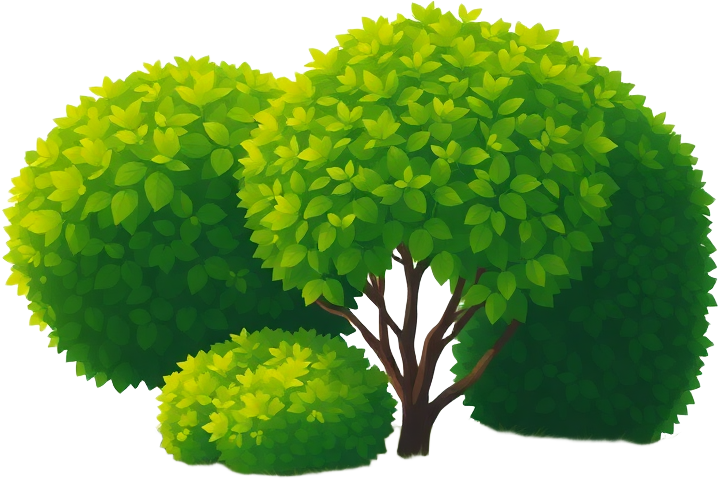
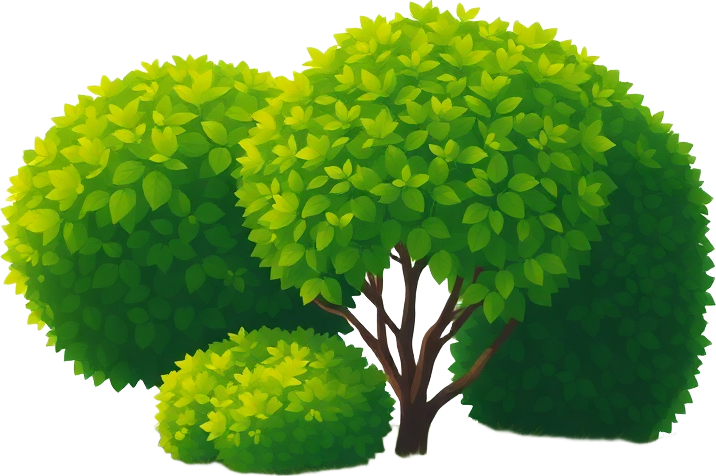
Goal scene: sit flush on the ground line, no right-edge bleed
- Sink the hill and bush bases into the soil line (deeper embed) so the green
  meets the ground flush instead of floating as a proud wedge.
- Re-crop goalhill/goalbush at an alpha threshold so the bottom edge is the
  solid base, not a soft matte halo.
- Clip the whole goal scene to the world's horizontal extent so the hill/bushes
  end cleanly at the map edge (same line the soil ends on) instead of bleeding
  into the off-map dark.

Claude-Session: https://claude.ai/code/session_01YCR2gkiAtGPrFY5YjFaZn2

diff --git a/dist/artifact.html b/dist/artifact.html
@@ -154,7 +154,7 @@
 <div id="ui"></div>
 <script>
 'use strict';
-window.__ASSET_VER = "91koi4";
+window.__ASSET_VER = "zntdr";
 // ===================== src/config.js =====================
 const __m_config = (function () {
 // =============================================================================
@@ -5495,32 +5495,45 @@ function goalCol0() {
   for (let c = 0; c < sub.cols; c++) if (sub.surface[c] && sub.surface[c].goal) return c;
   return -1;
 }
+// Clip whatever's drawn in `fn` to the world's horizontal extent so the goal
+// scene never bleeds past the map edges into the off-map dark.
+function withWorldClip(fn) {
+  const sub = state.substrate;
+  const lx = camera.worldToScreen(0, sub.surfaceY).x;
+  const rx = camera.worldToScreen(sub.worldWidth, sub.surfaceY).x;
+  ctx.save();
+  ctx.beginPath(); ctx.rect(lx, 0, rx - lx, camera.viewH); ctx.clip();
+  fn();
+  ctx.restore();
+}
 function drawGoalBackdrop() {
   const hill = asset('goalhill'); if (!hill) return;
   const sub = state.substrate, z = camera.zoom, cs = sub.cellSize;
   const g0 = goalCol0(); if (g0 < 0) return;
   const summerCols = Math.max(0, state.config.substrate.goalSummerCols || 0);
-  const x0 = Math.max(0, g0 - summerCols) * cs, x1 = sub.worldWidth + cs;   // span the cleared summer zone → off the right edge
+  const x0 = Math.max(0, g0 - summerCols) * cs, x1 = sub.worldWidth;   // span the cleared summer zone, ending AT the map edge
   const wWorld = x1 - x0, hWorld = wWorld * (hill.height / hill.width);
-  const embed = cs * 0.3;                                          // flat base tucked just under the soil line
+  const embed = cs * 0.9;                                             // sink the grassy base so the hill meets the soil line flush
   const sw = wWorld * z, sh = hWorld * z;
   const tl = camera.worldToScreen(x0, sub.surfaceY + embed - hWorld);
   if (tl.x > camera.viewW || tl.x + sw < 0) return;
-  ctx.drawImage(hill, tl.x, tl.y, sw, sh);
+  withWorldClip(() => ctx.drawImage(hill, tl.x, tl.y, sw, sh));
 }
 function drawGoalProps() {
   const bush = asset('goalbush'); if (!bush) return;
   const sub = state.substrate, z = camera.zoom, cs = sub.cellSize;
   const g0 = goalCol0(); if (g0 < 0) return;
   const aspect = bush.width / bush.height;
-  for (const [col, hCells] of [[g0 + 1, 3.0], [g0 + 4, 2.2]]) {    // a big cluster + a smaller one
-    if (col < 0 || col >= sub.cols) continue;
-    const hWorld = cs * hCells, wWorld = hWorld * aspect;
-    const s = camera.worldToScreen((col + 0.5) * cs, sub.surfaceY + cs * 0.18);
-    const sw = wWorld * z, sh = hWorld * z;
-    if (s.x < -sw || s.x > camera.viewW + sw) continue;
-    ctx.drawImage(bush, s.x - sw / 2, s.y - sh, sw, sh);
-  }
+  withWorldClip(() => {
+    for (const [col, hCells] of [[g0 + 1, 3.0], [g0 + 4, 2.2]]) {    // a big cluster + a smaller one
+      if (col < 0 || col >= sub.cols) continue;
+      const hWorld = cs * hCells, wWorld = hWorld * aspect;
+      const s = camera.worldToScreen((col + 0.5) * cs, sub.surfaceY + cs * 0.6);   // base sunk into the soil so it sits flush
+      const sw = wWorld * z, sh = hWorld * z;
+      if (s.x < -sw || s.x > camera.viewW + sw) continue;
+      ctx.drawImage(bush, s.x - sw / 2, s.y - sh, sw, sh);
+    }
+  });
 }
 
 // Nematodes: small pale wriggling worms. They writhe in place, tint reddish

diff --git a/dist/index.html b/dist/index.html
@@ -160,7 +160,7 @@
 <div id="ui"></div>
 <script>
 'use strict';
-window.__ASSET_VER = "91koi4";
+window.__ASSET_VER = "zntdr";
 // ===================== src/config.js =====================
 const __m_config = (function () {
 // =============================================================================
@@ -5501,32 +5501,45 @@ function goalCol0() {
   for (let c = 0; c < sub.cols; c++) if (sub.surface[c] && sub.surface[c].goal) return c;
   return -1;
 }
+// Clip whatever's drawn in `fn` to the world's horizontal extent so the goal
+// scene never bleeds past the map edges into the off-map dark.
+function withWorldClip(fn) {
+  const sub = state.substrate;
+  const lx = camera.worldToScreen(0, sub.surfaceY).x;
+  const rx = camera.worldToScreen(sub.worldWidth, sub.surfaceY).x;
+  ctx.save();
+  ctx.beginPath(); ctx.rect(lx, 0, rx - lx, camera.viewH); ctx.clip();
+  fn();
+  ctx.restore();
+}
 function drawGoalBackdrop() {
   const hill = asset('goalhill'); if (!hill) return;
   const sub = state.substrate, z = camera.zoom, cs = sub.cellSize;
   const g0 = goalCol0(); if (g0 < 0) return;
   const summerCols = Math.max(0, state.config.substrate.goalSummerCols || 0);
-  const x0 = Math.max(0, g0 - summerCols) * cs, x1 = sub.worldWidth + cs;   // span the cleared summer zone → off the right edge
+  const x0 = Math.max(0, g0 - summerCols) * cs, x1 = sub.worldWidth;   // span the cleared summer zone, ending AT the map edge
   const wWorld = x1 - x0, hWorld = wWorld * (hill.height / hill.width);
-  const embed = cs * 0.3;                                          // flat base tucked just under the soil line
+  const embed = cs * 0.9;                                             // sink the grassy base so the hill meets the soil line flush
   const sw = wWorld * z, sh = hWorld * z;
   const tl = camera.worldToScreen(x0, sub.surfaceY + embed - hWorld);
   if (tl.x > camera.viewW || tl.x + sw < 0) return;
-  ctx.drawImage(hill, tl.x, tl.y, sw, sh);
+  withWorldClip(() => ctx.drawImage(hill, tl.x, tl.y, sw, sh));
 }
 function drawGoalProps() {
   const bush = asset('goalbush'); if (!bush) return;
   const sub = state.substrate, z = camera.zoom, cs = sub.cellSize;
   const g0 = goalCol0(); if (g0 < 0) return;
   const aspect = bush.width / bush.height;
-  for (const [col, hCells] of [[g0 + 1, 3.0], [g0 + 4, 2.2]]) {    // a big cluster + a smaller one
-    if (col < 0 || col >= sub.cols) continue;
-    const hWorld = cs * hCells, wWorld = hWorld * aspect;
-    const s = camera.worldToScreen((col + 0.5) * cs, sub.surfaceY + cs * 0.18);
-    const sw = wWorld * z, sh = hWorld * z;
-    if (s.x < -sw || s.x > camera.viewW + sw) continue;
-    ctx.drawImage(bush, s.x - sw / 2, s.y - sh, sw, sh);
-  }
+  withWorldClip(() => {
+    for (const [col, hCells] of [[g0 + 1, 3.0], [g0 + 4, 2.2]]) {    // a big cluster + a smaller one
+      if (col < 0 || col >= sub.cols) continue;
+      const hWorld = cs * hCells, wWorld = hWorld * aspect;
+      const s = camera.worldToScreen((col + 0.5) * cs, sub.surfaceY + cs * 0.6);   // base sunk into the soil so it sits flush
+      const sw = wWorld * z, sh = hWorld * z;
+      if (s.x < -sw || s.x > camera.viewW + sw) continue;
+      ctx.drawImage(bush, s.x - sw / 2, s.y - sh, sw, sh);
+    }
+  });
 }
 
 // Nematodes: small pale wriggling worms. They writhe in place, tint reddish

diff --git a/src/main.js b/src/main.js
@@ -1335,32 +1335,45 @@ function goalCol0() {
   for (let c = 0; c < sub.cols; c++) if (sub.surface[c] && sub.surface[c].goal) return c;
   return -1;
 }
+// Clip whatever's drawn in `fn` to the world's horizontal extent so the goal
+// scene never bleeds past the map edges into the off-map dark.
+function withWorldClip(fn) {
+  const sub = state.substrate;
+  const lx = camera.worldToScreen(0, sub.surfaceY).x;
+  const rx = camera.worldToScreen(sub.worldWidth, sub.surfaceY).x;
+  ctx.save();
+  ctx.beginPath(); ctx.rect(lx, 0, rx - lx, camera.viewH); ctx.clip();
+  fn();
+  ctx.restore();
+}
 function drawGoalBackdrop() {
   const hill = asset('goalhill'); if (!hill) return;
   const sub = state.substrate, z = camera.zoom, cs = sub.cellSize;
   const g0 = goalCol0(); if (g0 < 0) return;
   const summerCols = Math.max(0, state.config.substrate.goalSummerCols || 0);
-  const x0 = Math.max(0, g0 - summerCols) * cs, x1 = sub.worldWidth + cs;   // span the cleared summer zone → off the right edge
+  const x0 = Math.max(0, g0 - summerCols) * cs, x1 = sub.worldWidth;   // span the cleared summer zone, ending AT the map edge
   const wWorld = x1 - x0, hWorld = wWorld * (hill.height / hill.width);
-  const embed = cs * 0.3;                                          // flat base tucked just under the soil line
+  const embed = cs * 0.9;                                             // sink the grassy base so the hill meets the soil line flush
   const sw = wWorld * z, sh = hWorld * z;
   const tl = camera.worldToScreen(x0, sub.surfaceY + embed - hWorld);
   if (tl.x > camera.viewW || tl.x + sw < 0) return;
-  ctx.drawImage(hill, tl.x, tl.y, sw, sh);
+  withWorldClip(() => ctx.drawImage(hill, tl.x, tl.y, sw, sh));
 }
 function drawGoalProps() {
   const bush = asset('goalbush'); if (!bush) return;
   const sub = state.substrate, z = camera.zoom, cs = sub.cellSize;
   const g0 = goalCol0(); if (g0 < 0) return;
   const aspect = bush.width / bush.height;
-  for (const [col, hCells] of [[g0 + 1, 3.0], [g0 + 4, 2.2]]) {    // a big cluster + a smaller one
-    if (col < 0 || col >= sub.cols) continue;
-    const hWorld = cs * hCells, wWorld = hWorld * aspect;
-    const s = camera.worldToScreen((col + 0.5) * cs, sub.surfaceY + cs * 0.18);
-    const sw = wWorld * z, sh = hWorld * z;
-    if (s.x < -sw || s.x > camera.viewW + sw) continue;
-    ctx.drawImage(bush, s.x - sw / 2, s.y - sh, sw, sh);
-  }
+  withWorldClip(() => {
+    for (const [col, hCells] of [[g0 + 1, 3.0], [g0 + 4, 2.2]]) {    // a big cluster + a smaller one
+      if (col < 0 || col >= sub.cols) continue;
+      const hWorld = cs * hCells, wWorld = hWorld * aspect;
+      const s = camera.worldToScreen((col + 0.5) * cs, sub.surfaceY + cs * 0.6);   // base sunk into the soil so it sits flush
+      const sw = wWorld * z, sh = hWorld * z;
+      if (s.x < -sw || s.x > camera.viewW + sw) continue;
+      ctx.drawImage(bush, s.x - sw / 2, s.y - sh, sw, sh);
+    }
+  });
 }
 
 // Nematodes: small pale wriggling worms. They writhe in place, tint reddish
